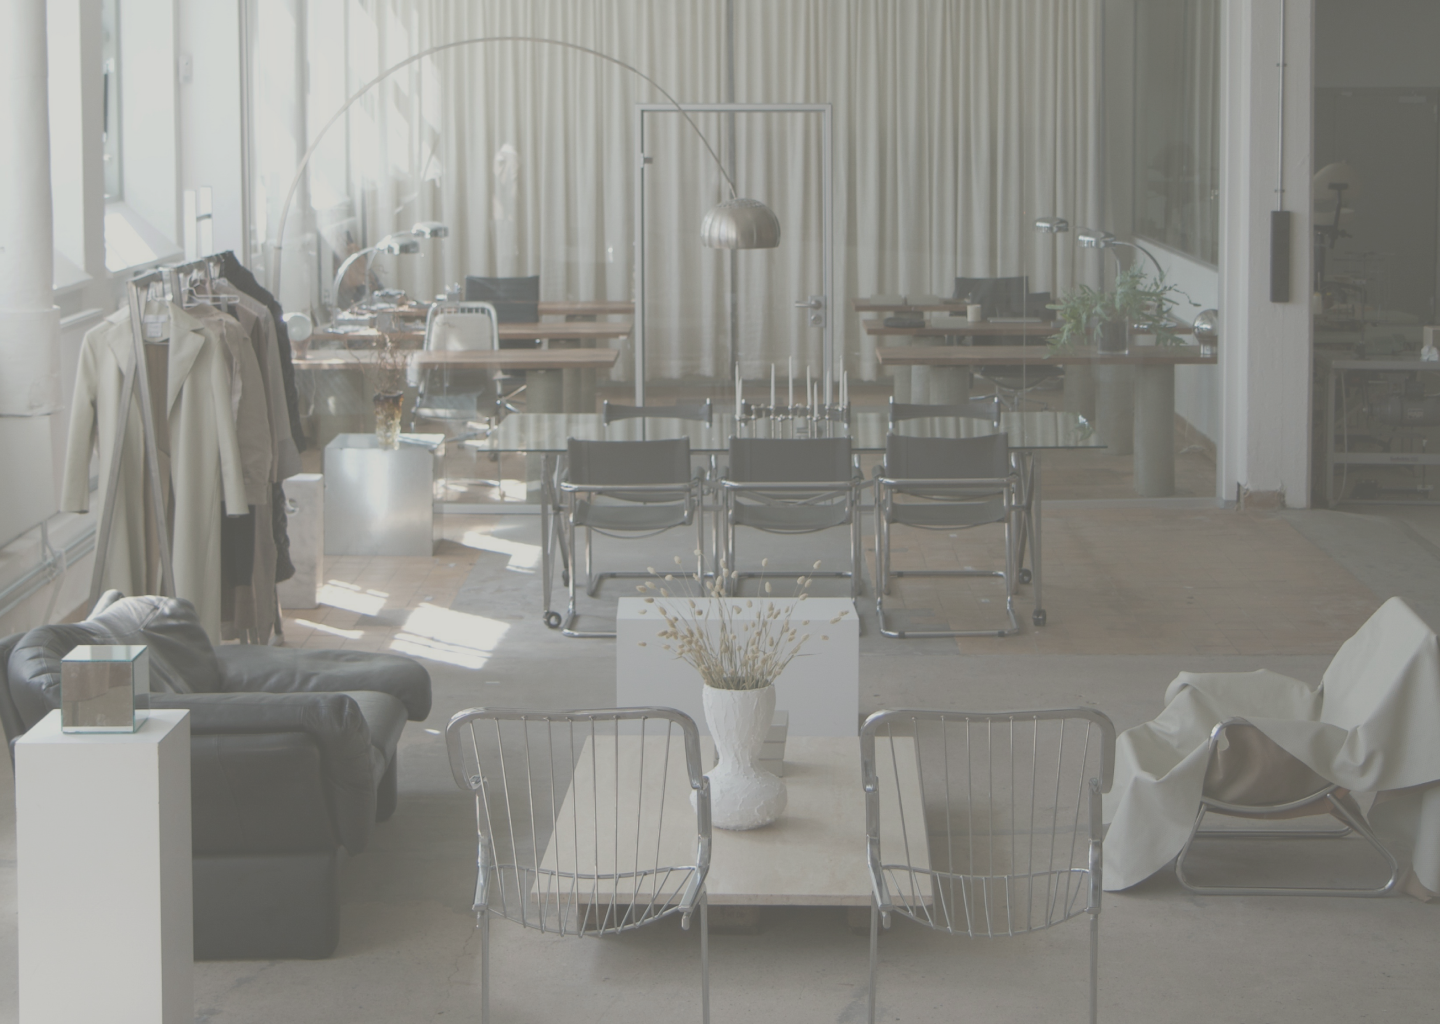
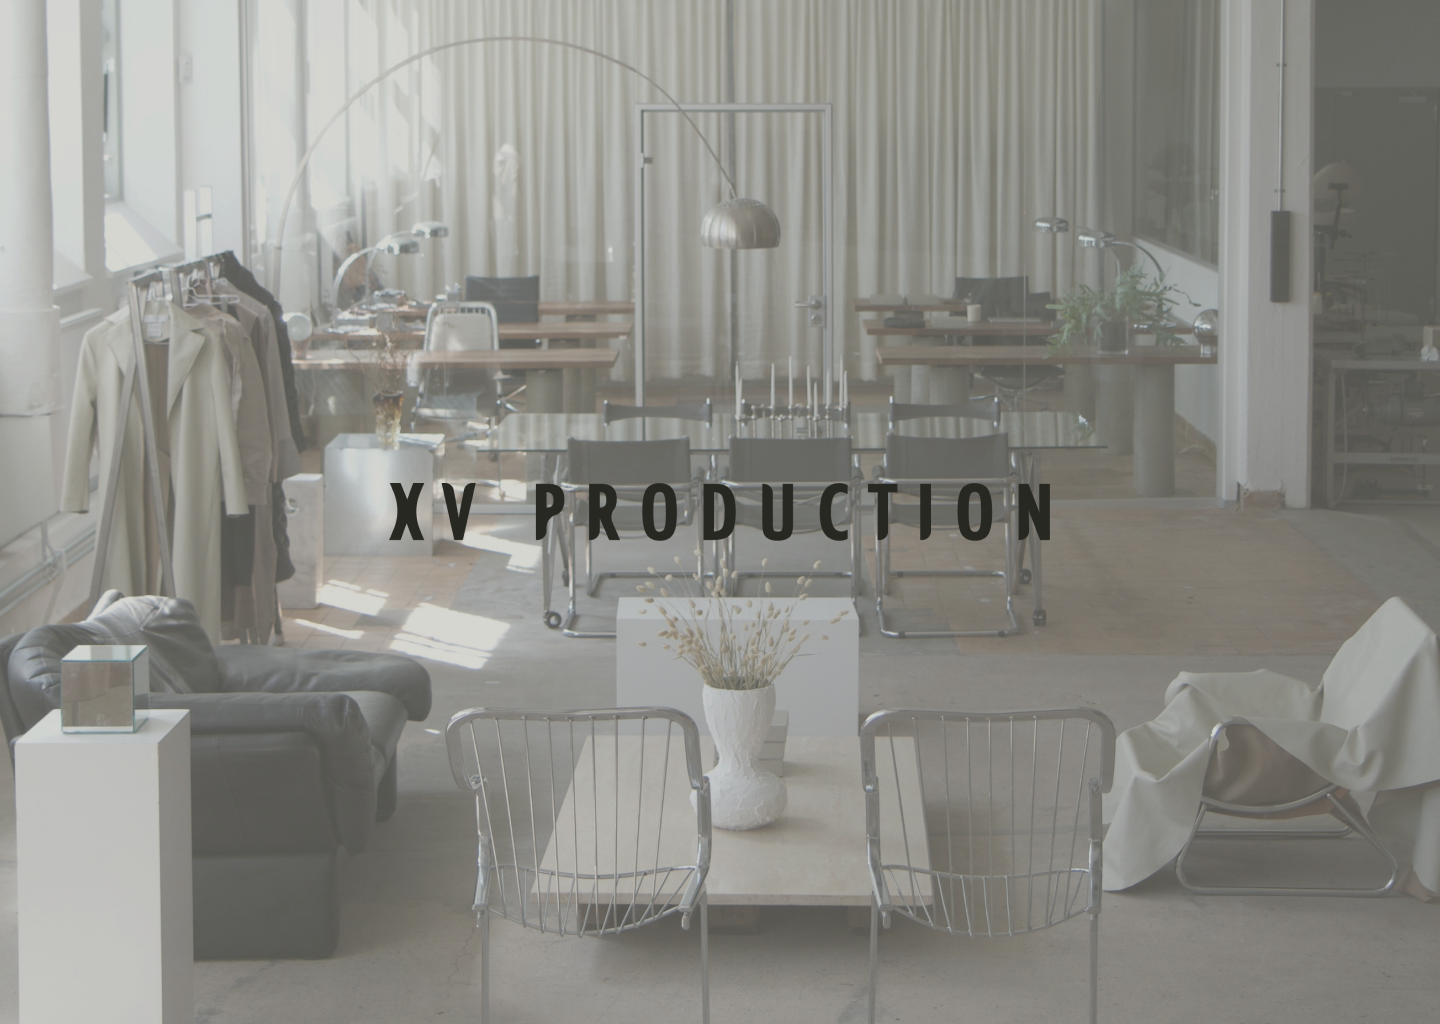
Fixed landing page and added first text

Changed region(s): [[0.375, 0.4688, 0.75, 0.5312], [0.25, 0.4688, 0.3438, 0.5312]]

diff --git a/src/components/PageElements.tsx b/src/components/PageElements.tsx
@@ -9,11 +9,34 @@ export default function PageElement(props: any, state: any) {
     <ReactFullpage.Wrapper>
       <div className="section">
         <BackgroundImage />
-        <p>Hej, {props.name}</p>
+        <div style={flexCenter}></div>
       </div>
       <div className="section">
-        <p>Section 2</p>
+        <div style={flexCenter}>
+          <p style={infoText}>
+            <b>XV Production</b> is a creative studio that collaborates with
+            fashion- and textile brands in a variety of projects.<br></br>
+            <br></br> As a creative studio, we work with all phases of the
+            production process - everything from the inception and initial idea,
+            to the design and the finished products. Our strength lies in our
+            ability to meet our customers wherever they might be their process.
+          </p>
+        </div>
       </div>
     </ReactFullpage.Wrapper>
   );
 }
+
+const flexCenter: CSSProperties = {
+  display: "flex",
+  justifyContent: "center",
+  alignItems: "center",
+};
+
+const infoText: CSSProperties = {
+  maxWidth: "50%",
+};
+
+const logoText: CSSProperties = {
+  zIndex: 10,
+};

diff --git a/src/index.css b/src/index.css
@@ -1,13 +1,17 @@
 body {
   margin: 0;
-  font-family: -apple-system, BlinkMacSystemFont, 'Segoe UI', 'Roboto', 'Oxygen',
-    'Ubuntu', 'Cantarell', 'Fira Sans', 'Droid Sans', 'Helvetica Neue',
+  font-family: -apple-system, BlinkMacSystemFont, "Segoe UI", "Roboto", "Oxygen",
+    "Ubuntu", "Cantarell", "Fira Sans", "Droid Sans", "Helvetica Neue",
     sans-serif;
   -webkit-font-smoothing: antialiased;
   -moz-osx-font-smoothing: grayscale;
 }
 
 code {
-  font-family: source-code-pro, Menlo, Monaco, Consolas, 'Courier New',
+  font-family: source-code-pro, Menlo, Monaco, Consolas, "Courier New",
     monospace;
+}
+
+.section {
+  background-color: #adaca2;
 }

diff --git a/src/components/BackgroundImage.tsx b/src/components/BackgroundImage.tsx
@@ -2,12 +2,16 @@ import React, { CSSProperties } from "react";
 import background from "../assets/bg.png";
 
 export default function BackgroundImage() {
-  return <img src={background} style={backgroundStyle} alt="" />;
+  return (
+    <img src={background} draggable="false" style={backgroundStyle} alt="" />
+  );
 }
 
 const backgroundStyle: CSSProperties = {
   position: "fixed",
   width: "100%",
-  zIndex: -10,
+  height: "100vh",
+  objectFit: "cover",
+  zIndex: 10,
   top: 0,
 };
